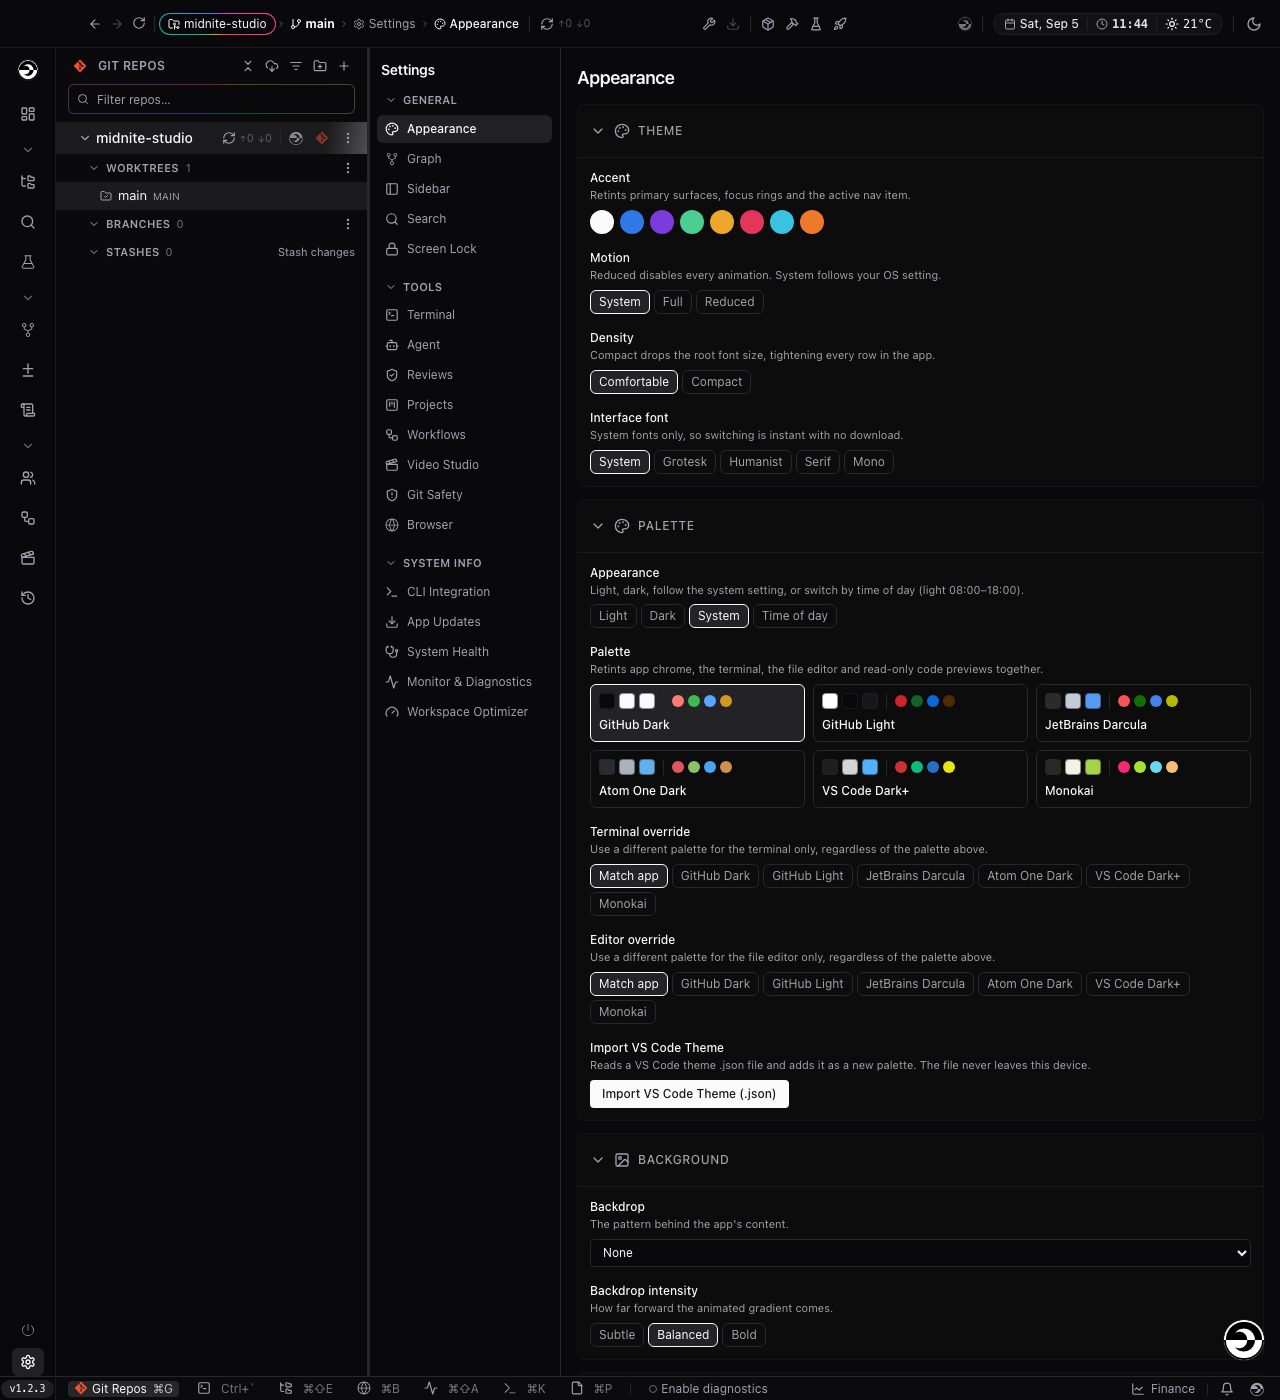
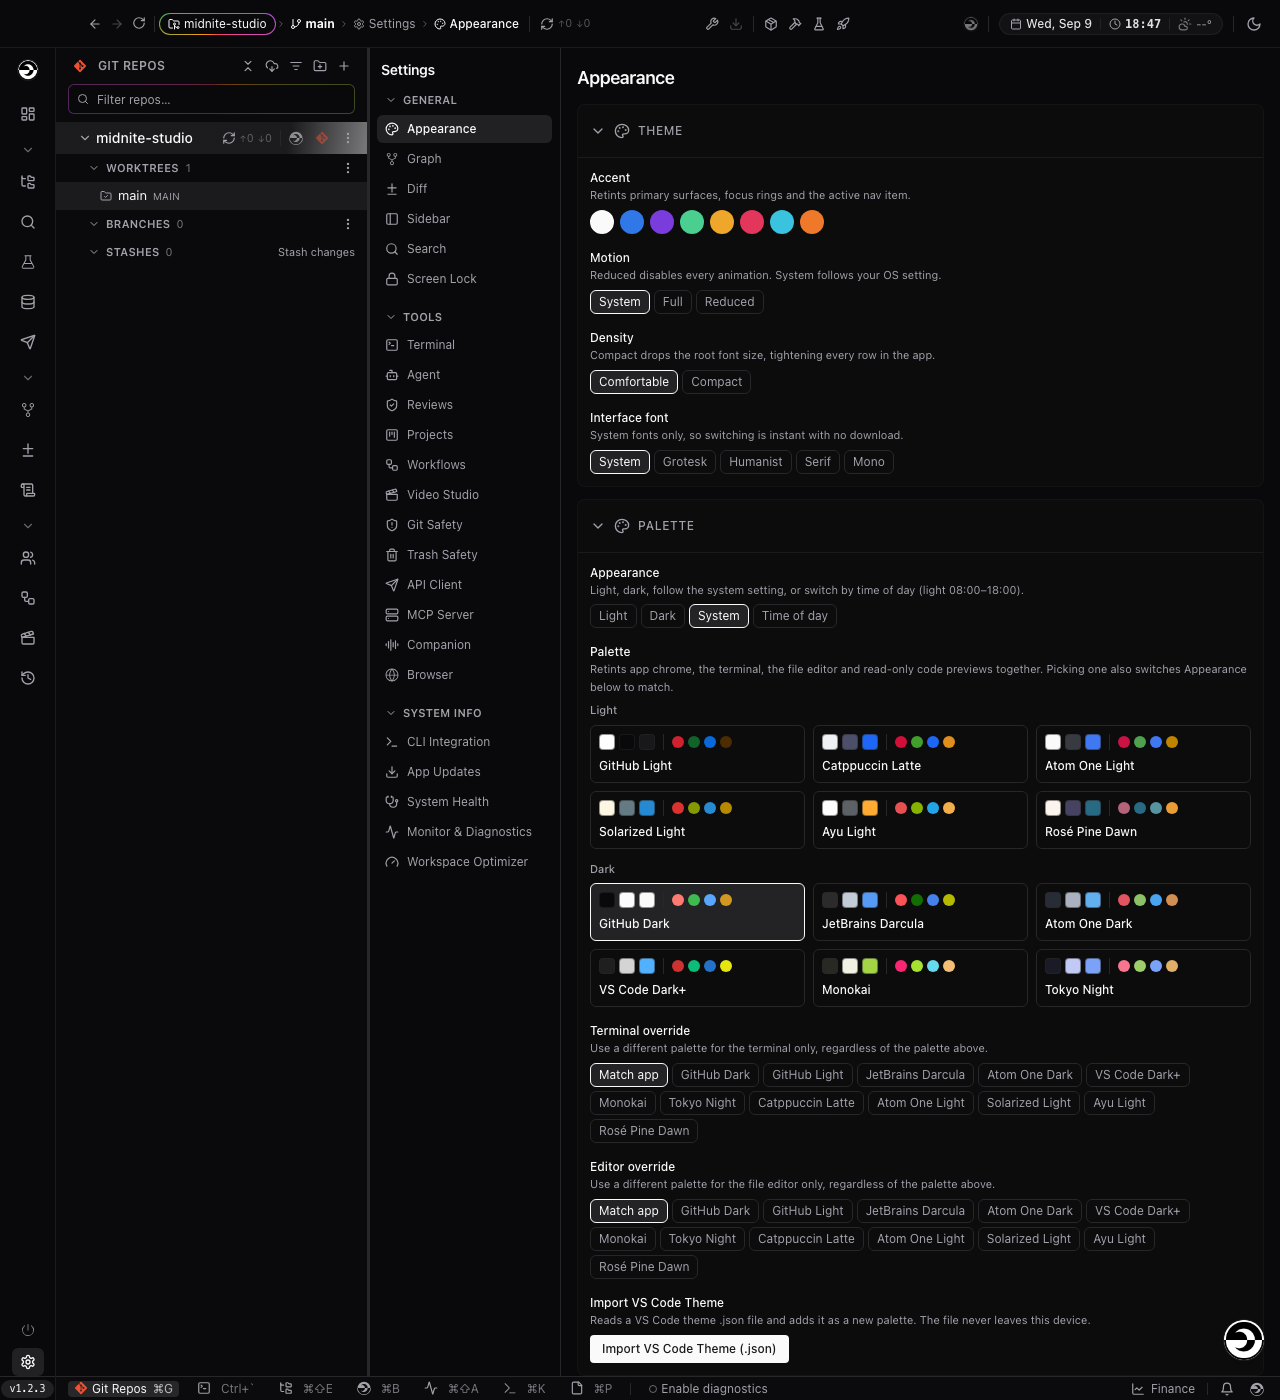
test(app): fix palette-accordion shot spec for the Light/Dark split, regenerate shots
theme-palette-shots.spec.ts waited on a radiogroup named "Palette", which
the picker split removed. Points it at "Light palettes" instead, and
regenerates both PNGs — they now show 12 preset cards across two labelled
groups instead of one flat 6-card grid.

diff --git a/packages/app/e2e/theme-palette-shots.spec.ts b/packages/app/e2e/theme-palette-shots.spec.ts
@@ -28,7 +28,7 @@ async function openAppearanceSettings(page: Page): Promise<void> {
     .getByRole('navigation', { name: 'Settings pages' })
     .getByRole('button', { name: 'Appearance', exact: true })
     .click();
-  await page.getByRole('radiogroup', { name: 'Palette' }).waitFor();
+  await page.getByRole('radiogroup', { name: 'Light palettes' }).waitFor();
   await page.waitForTimeout(SETTLE_MS);
 }
 
@@ -51,7 +51,7 @@ test.describe('Phase 64 Theme E + F — Palette accordion screenshots', () => {
       .getByRole('navigation', { name: 'Settings pages' })
       .getByRole('button', { name: 'Appearance', exact: true })
       .click();
-    await page.getByRole('radiogroup', { name: 'Palette' }).waitFor();
+    await page.getByRole('radiogroup', { name: 'Light palettes' }).waitFor();
     await page.waitForTimeout(SETTLE_MS);
     await page.screenshot({ path: shotPath(OUT, 'appearance-palette-dark.png') });
   });
